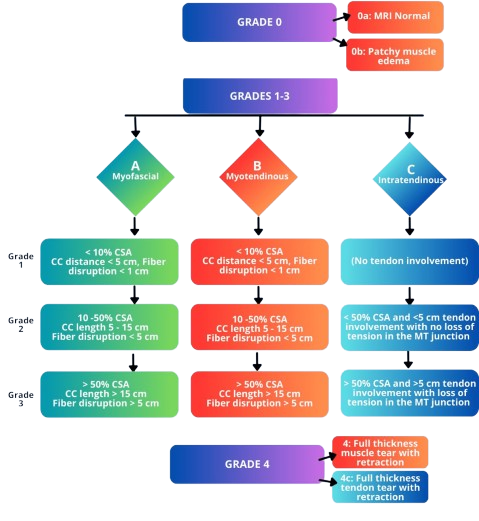
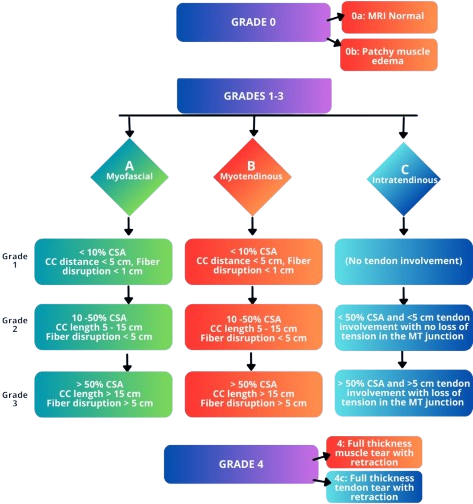
4:47pm 12.13.25

diff --git a/_sass/style.scss b/_sass/style.scss
@@ -107,3 +107,21 @@ a.icon img {
   width: 16px;
   height: 16px;
 }
+
+/*--------------- Custom Figure --------------- */
+.custom-figure {
+  margin: 0;
+  padding: 0;
+  
+  img {
+    display: block;
+    margin: 0 auto;
+  }
+  
+  .figure-caption {
+    text-align: center;
+    font-style: italic;
+    margin-top: 10px;
+    color: #cccccc;
+  }
+}

diff --git a/_includes/figure.html b/_includes/figure.html
@@ -1,0 +1,8 @@
+<br>
+
+<figure class="custom-figure">
+  <img src="{{ include.src }}" alt="{{ include.alt | default: include.caption }}" {% if include.style %}style="{{ include.style }}"{% endif %}>
+  <figcaption class="figure-caption">{{ include.caption }}</figcaption>
+</figure>
+
+<br>

diff --git a/projects/bionic-hamstring.md b/projects/bionic-hamstring.md
@@ -31,8 +31,10 @@ A strain is the generalized term used to describe an injury to the greater hamst
 
 Although non-standardized and quite convoluted, the severity of the strain is often diagnosed using a grading system. Most grading schemes follow an I-III or 0-4 level structure. More advanced grading structures separate the finer details of hamstring injury, combining severity grading and anatomic site classification across the musculotendinous region.
 
-![Hamstring Strain Grading Scheme](/assets/media/bionic-hamstring_media/grade.png){: style="width:80%; height:auto; display: block; margin: auto;"}  
-*Figure 1: Detailed hamstring strain grading scheme*
+{% include figure.html 
+   src="/assets/media/bionic-hamstring_media/grade.png" 
+   caption="Figure 1: Detailed hamstring strain grading scheme"
+   style="width:70%; height:auto; display: block; margin: auto;" %}
 
 **Secondary Pathologies**: Tendon rupture (especially at insertion) can cause retraction or bone fragment avulsion, in the case that the tension in the tendon forcefully rips off a portion of bone from the tendon insertion site.
 
@@ -45,8 +47,10 @@ The hamstrings anatomically comprise a group of muscles and their associated ten
 - Innervated by the tibial branch of the sciatic nerve.
 - Participates in knee flexion and hip extension.
 
-![Hamstring Anatomy](/assets/media/bionic-hamstring_media/hamstrings.png){: style="width:80%; height:auto; display: block; margin: auto;"}  
-*Reference: Gray's Anatomy (1918)*
+{% include figure.html 
+   src="/assets/media/bionic-hamstring_media/hamstrings.png" 
+   caption="Reference: Gray's Anatomy (1918)"
+   style="width:80%; height:auto; display: block; margin: auto;" %}
 
 | Muscle | Origin | Insertion |
 |--------|--------|-----------|
@@ -94,11 +98,15 @@ The pathology of a hamstring strain is mechanically characterized by a change in
 
 To further simplify and sharpen the focus of our bionic design, we have honed in on the semimembranosus muscle as our specific hamstring muscle of choice.
 
-![Unhealthy Gait Force](/assets/media/bionic-hamstring_media/plots/unhealthy.png){: style="width:80%; height:auto; display: block; margin: auto; background-color: tan; padding: 10px;"}  
-*Figure 2: Force contribution of each hamstring muscle during a walking gait with a hamstring strain (22% peak isometric force reduction in semimembranosus)*
+{% include figure.html 
+   src="/assets/media/bionic-hamstring_media/plots/unhealthy.png" 
+   caption="Figure 2: Force contribution of each hamstring muscle during a walking gait with a hamstring strain (22% peak isometric force reduction in semimembranosus)"
+   style="width:80%; height:auto; display: block; margin: auto; background-color: tan; padding: 10px;" %}
 
-![Healthy Gait Force](/assets/media/bionic-hamstring_media/plots/healthy.png){: style="width:80%; height:auto; display: block; margin: auto; background-color: tan; padding: 10px;"}  
-*Figure 3: Force contribution of each hamstring muscle during a walking gait without a hamstring strain*
+{% include figure.html 
+   src="/assets/media/bionic-hamstring_media/plots/healthy.png" 
+   caption="Figure 3: Force contribution of each hamstring muscle during a walking gait without a hamstring strain"
+   style="width:80%; height:auto; display: block; margin: auto; background-color: tan; padding: 10px;" %}
 
 ### C. Bionic System Modelling
 
@@ -113,27 +121,39 @@ Our modeling abstraction must conform to the OpenSim framework and its selection
 4. Run Residual Reduction Algorithm (RRA) to improve the accuracy of CMC results.
 5. Run Computed Muscle Control (CMC) to obtain muscle activation information. We will use activation to measure system performance.
 
-![Muscle Activation at 400N](/assets/media/bionic-hamstring_media/plots/400N.png){: style="width:80%; height:auto; display: block; margin: auto; background-color: tan; padding: 10px;"}  
-*Figure 4a: Muscle activation of unhealthy gait with 400N actuator*
+{% include figure.html 
+   src="/assets/media/bionic-hamstring_media/plots/400N.png" 
+   caption="Figure 4a: Muscle activation of unhealthy gait with 400N actuator"
+   style="width:80%; height:auto; display: block; margin: auto; background-color: tan; padding: 10px;" %}
 
-![Muscle Activation at 600N](/assets/media/bionic-hamstring_media/plots/600N.png){: style="width:80%; height:auto; display: block; margin: auto; background-color: tan; padding: 10px;"}  
-*Figure 4b: Muscle activation of unhealthy gait with 600N actuator*
+{% include figure.html 
+   src="/assets/media/bionic-hamstring_media/plots/600N.png" 
+   caption="Figure 4b: Muscle activation of unhealthy gait with 600N actuator"
+   style="width:80%; height:auto; display: block; margin: auto; background-color: tan; padding: 10px;" %}
 
-![Muscle Activation at 700N](/assets/media/bionic-hamstring_media/plots/700N.png){: style="width:80%; height:auto; display: block; margin: auto; background-color: tan; padding: 10px;"}  
-*Figure 4c: Muscle activation of unhealthy gait with 700N actuator*
+{% include figure.html 
+   src="/assets/media/bionic-hamstring_media/plots/700N.png" 
+   caption="Figure 4c: Muscle activation of unhealthy gait with 700N actuator"
+   style="width:80%; height:auto; display: block; margin: auto; background-color: tan; padding: 10px;" %}
 
 *Figure 4: Activation of hamstring muscles during 1 cycle of a patient with a semimembranosus tear (unhealthy gait) with path actuator assistance (400N, 600N, 700N max force potential actuators). Normalized to [0,1]*
 
 Here is our finalized representation of hamstring muscle activation across three cases (healthy gait, unhealthy gait, and unhealthy gait with bionic system). The reserve actuator usage and tracking error plots remain within acceptable limits, indicating that the model executed the motion without excessive reliance on non-physiological actuators. Accordingly, we consider the simulation results reliable for continued analysis. All supporting plots are included in the Appendix.
 
-![Healthy Activation](/assets/media/bionic-hamstring_media/plots/healthy-activation.png){: style="width:80%; height:auto; display: block; margin: auto; background-color: tan; padding: 10px;"}  
-*Figure 5a: Activation of hamstring muscles during 1 cycle of healthy gait*
+{% include figure.html 
+   src="/assets/media/bionic-hamstring_media/plots/healthy-activation.png" 
+   caption="Figure 5a: Activation of hamstring muscles during 1 cycle of healthy gait"
+   style="width:80%; height:auto; display: block; margin: auto; background-color: tan; padding: 10px;" %}
 
-![Unhealthy Activation](/assets/media/bionic-hamstring_media/plots/unhealthy-activation.png){: style="width:80%; height:auto; display: block; margin: auto; background-color: tan; padding: 10px;"}  
-*Figure 5b: Activation of hamstring muscles during 1 cycle of a patient with a semimembranosus tear (unhealthy gait)*
+{% include figure.html 
+   src="/assets/media/bionic-hamstring_media/plots/unhealthy-activation.png" 
+   caption="Figure 5b: Activation of hamstring muscles during 1 cycle of a patient with a semimembranosus tear (unhealthy gait)"
+   style="width:80%; height:auto; display: block; margin: auto; background-color: tan; padding: 10px;" %}
 
-![Active Actuation](/assets/media/bionic-hamstring_media/plots/active-actuation.png){: style="width:80%; height:auto; display: block; margin: auto; background-color: tan; padding: 10px;"}  
-*Figure 5c: Activation of hamstring muscles during 1 cycle of a patient with a semimembranosus tear (unhealthy gait) with path actuator assistance*
+{% include figure.html 
+   src="/assets/media/bionic-hamstring_media/plots/active-actuation.png" 
+   caption="Figure 5c: Activation of hamstring muscles during 1 cycle of a patient with a semimembranosus tear (unhealthy gait) with path actuator assistance"
+   style="width:80%; height:auto; display: block; margin: auto; background-color: tan; padding: 10px;" %}
 
 *Figure 5: Activation data gathered from CMC of healthy, unhealthy, and unhealthy assisted gaits. Normalized to [0,1]*
 
@@ -157,8 +177,10 @@ The primary goal of our exo system is to minimize the activation of the affected
 
 Our device is a powered knee skeleton designed to assist patients recovering from a hamstring tear. The exoskeleton is worn on one leg and spans from the mid-thigh to the shank, with soft straps around the thigh and calf and a small anchor near the ankle. A lightweight external frame follows the lateral contour of the leg and houses a brushless DC motor (Maxon EC-4pole 30, Ø30 mm, 200 W) mounted at the knee joint. The motor drives the knee through a 215:1 transmission, allowing it to generate biologically relevant flexion/extension torques while keeping the actuator compact.
 
-![H.A.M.S.T.E.R](/assets/media/bionic-hamstring_media/bionic.png){: style="width:80%; height:auto; display: block; margin: auto;"}  
-*Figure 6: H.A.M.S.T.E.R: Hamstring Active Mechanical Support Training & Enhancement Robot*
+{% include figure.html 
+   src="/assets/media/bionic-hamstring_media/bionic.png" 
+   caption="Figure 6: H.A.M.S.T.E.R: Hamstring Active Mechanical Support Training & Enhancement Robot"
+   style="width:80%; height:auto; display: block; margin: auto;" %}
 
 The system attaches to the body using adjustable straps at the thigh and calf that are connected to a simple kinematic linkage. When the knee bends, this linkage actively loosens the straps to accommodate the increased leg circumference, preventing a tourniquet effect and improving comfort and circulation. When the leg is extended, the straps automatically tighten again to provide a secure mechanical connection for torque transfer. In operation, the device supplies assistive knee torque during gait to reduce the load on the injured hamstring muscles while preserving natural joint motion and user comfort.
 
@@ -176,46 +198,64 @@ Based on the desired trajectory from the OpenSim modeling we picked an off-the-s
 
 The healthy knee joint torque and angle over time for one step were exported to MATLAB. A 100-sample-per-second window was applied to smooth the results, and the resulting plots closely match the OpenSim plots. The segments with high angular acceleration and/or torque drive the motor specifications.
 
-![Knee Angle & Torque](/assets/media/bionic-hamstring_media/plots/knee.png){: style="width:80%; height:auto; display: block; margin: auto; background-color: tan; padding: 10px;"}  
-*Figure 7: Knee angle & torque across 1 walking gait cycle*
+{% include figure.html 
+   src="/assets/media/bionic-hamstring_media/plots/knee.png" 
+   caption="Figure 7: Knee angle & torque across 1 walking gait cycle"
+   style="width:80%; height:auto; display: block; margin: auto; background-color: tan; padding: 10px;" %}
 
 13 Maxon motors with various characteristics and geometries were compared. Energy lost to heat was the cost function used to select the optimal motor and transmission ratio combination. A 4-pole brushless motor from Maxon (Part number 305015) with a 215:1 transmission ratio was the best.
 
-![Motor Comparison 1](/assets/media/bionic-hamstring_media/plots/motor1.png){: style="width:80%; height:auto; display: block; margin: auto; background-color: tan; padding: 10px;"}  
-*Figure 8a: First 5 motors compared: motor 4 with TR of 215 is the best (Energy lost to heat = 1.5025 J).*
+{% include figure.html 
+   src="/assets/media/bionic-hamstring_media/plots/motor1.png" 
+   caption="Figure 8a: First 5 motors compared: motor 4 (TR=215) is the best (Energy lost to heat = 1.5025 J)."
+   style="width:80%; height:auto; display: block; margin: auto; background-color: tan; padding: 10px;" %}
 
-![Motor Comparison 2](/assets/media/bionic-hamstring_media/plots/motor2.png){: style="width:80%; height:auto; display: block; margin: auto; background-color: tan; padding: 10px;"}  
-*Figure 8b: Wanted to try other nominal voltages, keeping motor 4 the same but changing the other 4.*
+{% include figure.html 
+   src="/assets/media/bionic-hamstring_media/plots/motor2.png" 
+   caption="Figure 8b: Wanted to try other nominal voltages, keeping motor 4 the same but changing the other 4."
+   style="width:80%; height:auto; display: block; margin: auto; background-color: tan; padding: 10px;" %}
 
-![Motor Comparison 3](/assets/media/bionic-hamstring_media/plots/motor3.png){: style="width:80%; height:auto; display: block; margin: auto; background-color: tan; padding: 10px;"}  
-*Figure 8c: Want to try different profiles and different wattage but keeping 48V of nominal voltage (again, keeping motor 4 the same).*
+{% include figure.html 
+   src="/assets/media/bionic-hamstring_media/plots/motor3.png" 
+   caption="Figure 8c: Want to try different profiles and different wattage but keeping 48V of nominal voltage (again, keeping motor 4 the same)."
+   style="width:80%; height:auto; display: block; margin: auto; background-color: tan; padding: 10px;" %}
 
 *Figure 8: 3-staged comparison of 13 different motors and their energy dissipation to heat loss across different transmission ratios.*
 
 Plotting the current draw and input voltage for this motor and transmission ratio combination yields the following plot.
 
-![Motor Current and Voltage](/assets/media/bionic-hamstring_media/plots/motor-CV.png){: style="width:80%; height:auto; display: block; margin: auto; background-color: tan; padding: 10px;"}  
-*Figure 9: Current draw and input voltage for optimal motor and transmission ratio combination*
+{% include figure.html 
+   src="/assets/media/bionic-hamstring_media/plots/motor-CV.png" 
+   caption="Figure 9: Current draw and input voltage for optimal motor and transmission ratio combination"
+   style="width:80%; height:auto; display: block; margin: auto; background-color: tan; padding: 10px;" %}
 
 This combination results in about 1.47J of energy lost to heat. This does not sound like a lot, but since this occurs per step, the heat would build up quickly. To dissipate this heat, a finned motor housing can be used.
 
 A rotary-to-linear transmission system was designed as the peak transmission ratio can be selected to be achieved at a certain joint angle. Since the peak torque of the knee is achieved at 0 degrees of knee flexion, the 215:1 transmission ratio should be the peak and achieved at the equivalent -180 degrees. It is not a worry that the knee will go past -180 degrees, as there will be a hard stop to prevent the knee from bending this way. Using the following parameters, a peak transmission ratio of 215:1 is achieved at 0 degrees of flexion as needed.
 
-![Transmission Parameters](/assets/media/bionic-hamstring_media/parameters.png){: style="width:80%; height:auto; display: block; margin: auto;"}  
-*Figure 10: Transmission system geometric parameters*
+{% include figure.html 
+   src="/assets/media/bionic-hamstring_media/parameters.png" 
+   caption="Figure 10: Transmission system geometric parameters"
+   style="width:50%; height:auto; display: block; margin: auto;" %}
 
-![Transmission Ratio Curve](/assets/media/bionic-hamstring_media/plots/transmission.png){: style="width:80%; height:auto; display: block; margin: auto; background-color: tan; padding: 10px;"}  
-*Figure 11: Transmission ratio curve across varying knee angles (optimized to peak at $-180°$ where peak torque is required)*
+{% include figure.html 
+   src="/assets/media/bionic-hamstring_media/plots/transmission.png" 
+   caption="Figure 11: Transmission ratio curve across varying knee angles (optimized to peak at $-180°$ where peak torque is required)"
+   style="width:80%; height:auto; display: block; margin: auto; background-color: tan; padding: 10px;" %}
 
 ### D. Series Elastic Actuation (SEA)
 
 We evaluated the performance impact of integrating a series elastic actuator. It was concluded that the efficiency gains derived from SEA are negligible, making SEA an unnecessary inclusion in our bionic system.
 
-![SEA Comparison](/assets/media/bionic-hamstring_media/plots/sea.png){: style="width:80%; height:auto; display: block; margin: auto; background-color: tan; padding: 10px;"}  
-*Figure 12: Input current and voltage comparison between a bionic system with and without an SEA*
+{% include figure.html 
+   src="/assets/media/bionic-hamstring_media/plots/sea.png" 
+   caption="Figure 12: Input current and voltage comparison between a bionic system with and without an SEA"
+   style="width:80%; height:auto; display: block; margin: auto; background-color: tan; padding: 10px;" %}
 
-![SEA Power Loss](/assets/media/bionic-hamstring_media/plots/power-loss_SEA.png){: style="width:80%; height:auto; display: block; margin: auto; background-color: tan; padding: 10px;"}  
-*Figure 13: Power loss across a single walking gait of a series elastic actuated system across different stiffness constants*
+{% include figure.html 
+   src="/assets/media/bionic-hamstring_media/plots/power-loss_SEA.png" 
+   caption="Figure 13: Power loss across a single walking gait of a series elastic actuated system across different stiffness constants"
+   style="width:80%; height:auto; display: block; margin: auto; background-color: tan; padding: 10px;" %}
 
 ### E. Battery Selection
 
@@ -254,8 +294,10 @@ A kinematic strap mechanism for the thigh and calf that automatically loosens du
 
 The system will be driven using sensor inputs to a microcontroller, which then causes a motor driver to change the actuation from a motor. This feedback will be sent back to the microcontroller to ensure that the target trajectory is achieved.
 
-![Controls Diagram](/assets/media/bionic-hamstring_media/controls.png){: style="width:80%; height:auto; display: block; margin: auto;"}  
-*Figure 14: Controls diagram*
+{% include figure.html 
+   src="/assets/media/bionic-hamstring_media/controls.png" 
+   caption="Figure 14: Controls diagram"
+   style="width:80%; height:auto; display: block; margin: auto; background-color: white; padding: 10px;" %}
 
 - **High-level control** (running on the Nucleo-G431RB at ≈100 Hz), the MCU reads the EMG signal through its ADC and interprets user intent (e.g., level of muscle activation and gait phase). Based on this information and a stored "desired" healthy knee profile, it generates a desired knee torque/angle trajectory and overall assistance level, and sends this reference to the mid-level controller while streaming data to the PC for logging.
 
@@ -313,8 +355,10 @@ We moved the bulk of the mass distribution downstream, or farther up the leg and
 **Torque Density of the system:**  
 Since the stall torque of the maxon motor is 3,430 mNm and the transmission ratio 215:1, we can assume peak torque of the system to be 737.45 Nm. Dividing this by the entire mass of the system (5.735 kg), the torque density can be calculated as 128.59 Nm/kg.
 
-![Torque Density Comparison](/assets/media/bionic-hamstring_media/plots/torque-density.png){: style="width:80%; height:auto; display: block; margin: auto; background-color: tan; padding: 10px;"}  
-*Figure 15: Comparison of CMC activation data of unhealthy gait without exoskeleton and unhealthy gait with exoskeleton with recomputed accurate mass distributions based on finalized bionic architecture*
+{% include figure.html 
+   src="/assets/media/bionic-hamstring_media/plots/torque-density.png" 
+   caption="Figure 15: Comparison of CMC activation data of unhealthy gait without exoskeleton and unhealthy gait with exoskeleton with recomputed accurate mass distributions based on finalized bionic architecture"
+   style="width:100%; height:auto; display: block; margin: auto; background-color: tan; padding: 10px;" %}
 
 The graphs clearly demonstrate that semimembranosus activation is reduced compared to unassisted gait.
 
@@ -330,8 +374,10 @@ One suggested augmentation to the bionic framework takes inspiration from the Il
 
 This technique is not well studied for its ability to withstand dynamic loading patterns, such as those sustained under walking and control inputs from our actuated system. Although potentially reversible, there may also be unwarranted bone growth at anchor sites. The surgery is also quite invasive. For these reasons, this surgery may not be the most suitable option for our given pathology.
 
-![Ilizarov Method](/assets/media/bionic-hamstring_media/ilizarov.png){: style="width:80%; height:auto; display: block; margin: auto;"}  
-*Figure 16: Ilizarov limb-lengthening technique*
+{% include figure.html 
+   src="/assets/media/bionic-hamstring_media/ilizarov.png" 
+   caption="Figure 16: Ilizarov limb-lengthening technique"
+   style="width:50%; height:auto; display: block; margin: auto;" %}
 
 **Table IV: Cost-Benefit Analysis: Ilizarov Surgical Method**
 
@@ -385,27 +431,39 @@ This project provides a structured foundation for understanding basic hamstring 
 
 ### Error Tracking
 
-![Error Healthy](/assets/media/bionic-hamstring_media/plots/error-healthy.png){: style="width:80%; height:auto; display: block; margin: auto; background-color: tan; padding: 10px;"}  
-*Figure A1a: Error tracking of healthy gait.*
+{% include figure.html 
+   src="/assets/media/bionic-hamstring_media/plots/error-healthy.png" 
+   caption="Figure A1a: Error tracking of healthy gait."
+   style="width:80%; height:auto; display: block; margin: auto; background-color: tan; padding: 10px;" %}
 
-![Error Unhealthy](/assets/media/bionic-hamstring_media/plots/error-unhealthy.png){: style="width:80%; height:auto; display: block; margin: auto; background-color: tan; padding: 10px;"}  
-*Figure A1b: Error tracking of unhealthy gait.*
+{% include figure.html 
+   src="/assets/media/bionic-hamstring_media/plots/error-unhealthy.png" 
+   caption="Figure A1b: Error tracking of unhealthy gait."
+   style="width:80%; height:auto; display: block; margin: auto; background-color: tan; padding: 10px;" %}
 
-![Error Active](/assets/media/bionic-hamstring_media/plots/error-active.png){: style="width:80%; height:auto; display: block; margin: auto; background-color: tan; padding: 10px;"}  
-*Figure A1c: Error tracking of unhealthy gait with 566N path actuator*
+{% include figure.html 
+   src="/assets/media/bionic-hamstring_media/plots/error-active.png" 
+   caption="Figure A1c: Error tracking of unhealthy gait with 566N path actuator"
+   style="width:80%; height:auto; display: block; margin: auto; background-color: tan; padding: 10px;" %}
 
 *Figure A1: Error Tracking for Comparison for Final Result.*
 
 ### Reserve Plots
 
-![Reserve Healthy](/assets/media/bionic-hamstring_media/plots/reserve-healthy.png){: style="width:80%; height:auto; display: block; margin: auto; background-color: tan; padding: 10px;"}  
-*Figure A2a: Force reserves of healthy gait.*
+{% include figure.html 
+   src="/assets/media/bionic-hamstring_media/plots/reserve-healthy.png" 
+   caption="Figure A2a: Force reserves of healthy gait."
+   style="width:80%; height:auto; display: block; margin: auto; background-color: tan; padding: 10px;" %}
 
-![Reserve Unhealthy](/assets/media/bionic-hamstring_media/plots/reserve-unhealthy.png){: style="width:80%; height:auto; display: block; margin: auto; background-color: tan; padding: 10px;"}  
-*Figure A2b: Force reserves of unhealthy gait.*
+{% include figure.html 
+   src="/assets/media/bionic-hamstring_media/plots/reserve-unhealthy.png" 
+   caption="Figure A2b: Force reserves of unhealthy gait."
+   style="width:80%; height:auto; display: block; margin: auto; background-color: tan; padding: 10px;" %}
 
-![Reserve Active](/assets/media/bionic-hamstring_media/plots/reserve-active.png){: style="width:80%; height:auto; display: block; margin: auto; background-color: tan; padding: 10px;"}  
-*Figure A2c: Force reserves of unhealthy gait with 566N path actuator*
+{% include figure.html 
+   src="/assets/media/bionic-hamstring_media/plots/reserve-active.png" 
+   caption="Figure A2c: Force reserves of unhealthy gait with 566N path actuator"
+   style="width:80%; height:auto; display: block; margin: auto; background-color: tan; padding: 10px;" %}
 
 *Figure A2: Reserve Plots for Comparison for Final Result.*
 
@@ -413,7 +471,7 @@ This project provides a structured foundation for understanding basic hamstring 
 
 **Table A1: Motor Specification Summary**
 
-| Motor | $R_{\text{term}}$ ($\Omega$) | $L_{\text{term}}$ (mH) | $K_t$ (mNm/A) | $K_v$ (rpm/V) | Inertia (g·cm²) |
+| Motor | $R_{\text{term}}$($\Omega$) | $L_{\text{term}}$ (mH) | $K_t$ (mNm/A) | $K_v$ (rpm/V) | Inertia (g·cm²) |
 |-------|------------------------------|------------------------|---------------|---------------|-----------------|
 | ECX FLAT 42 M (Ø 42 mm) | 0.933 | 0.698 | 60.1 | 159 | 86.2 |
 | ECX FLAT 32 L (Ø 32 mm) | 1.07 | 0.805 | 32.8 | 291 | 9.47 |
